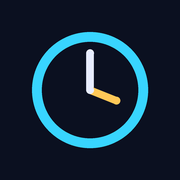
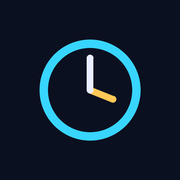
Add files via upload

Changed region(s): [[0.1667, 0.1667, 0.8333, 0.8333], [0.5833, 0.5278, 0.6667, 0.5833]]

diff --git a/index.html b/index.html
@@ -76,8 +76,11 @@ nav .ci{box-shadow:inset 0 1px 0 rgba(255,255,255,.45),0 5px 10px -5px var(--shc
 .pri{box-shadow:0 6px 16px -8px var(--ac)}
 .an{padding:10px 0;border-bottom:1px solid var(--line);text-align:left}.an:last-child{border-bottom:0}
 .an.hn{cursor:pointer}.an .ar{display:flex;justify-content:space-between;align-items:center;gap:10px}
-.an .ch{color:var(--mu);font-size:12px;flex-shrink:0}.an .nt{margin-top:8px;padding:10px 12px;border-radius:12px;background:var(--s2);color:var(--mu);font-size:14px;white-space:pre-wrap;line-height:1.6}
+.an .ch{color:var(--ac);font-size:22px;line-height:1;width:36px;height:36px;display:flex;align-items:center;justify-content:center;border-radius:12px;background:var(--s2);flex-shrink:0}.an .nt{margin-top:8px;padding:10px 12px;border-radius:12px;background:var(--s2);color:var(--mu);font-size:14px;white-space:pre-wrap;line-height:1.6}
 .ann .li:last-child{border-bottom:0}.sep{border:0;border-top:1px solid var(--line);margin:8px 0 4px}
+/* 淺色模式對比度加強 + 手動切換主題（設定頁） */
+@media (prefers-color-scheme:light){:root:not([data-theme="dark"]){--s1:rgba(255,255,255,.78);--mu:#46537a;--line:rgba(60,80,130,.28)}}
+:root[data-theme="light"]{--bg:#eaf0fb;--s1:rgba(255,255,255,.55);--s2:rgba(255,255,255,.7);--line:rgba(70,90,140,.2);--tx:#16203a;--mu:#5d6a8c;--ac:#0a8fd0;--acs:#0a8fd01a;--blue:#cfe9fb;--blueT:#0b3a5e;--dec:#b27a00;--ok:#0f9d62;--bad:#d1384a;--pill:rgba(10,143,208,.14);--snow:100,140,205;--b1:rgba(10,143,208,.25);--b2:rgba(150,110,255,.18);--b3:rgba(10,143,208,.12);--shc:rgba(50,70,120,.3);--s1:rgba(255,255,255,.78);--mu:#46537a;--line:rgba(60,80,130,.28)}
 </style></head><body><div id="app"><h1 id="h"></h1><main id="v"></main>
 <nav><span id="navbg"></span><svg id="navsvg"></svg><span id="pill"></span><button data-t="settings"><svg viewBox="0 0 24 24"><path d="M19.14 12.94c.04-.3.06-.61.06-.94 0-.32-.02-.64-.07-.94l2.03-1.58a.49.49 0 0 0 .12-.61l-1.92-3.32a.488.488 0 0 0-.59-.22l-2.39.96c-.5-.38-1.03-.7-1.62-.94l-.36-2.54a.484.484 0 0 0-.48-.41h-3.84c-.24 0-.43.17-.47.41l-.36 2.54c-.59.24-1.13.57-1.62.94l-2.39-.96c-.22-.08-.47 0-.59.22L2.74 8.87c-.12.21-.08.47.12.61l2.03 1.58c-.05.3-.09.63-.09.94s.02.64.07.94l-2.03 1.58a.49.49 0 0 0-.12.61l1.92 3.32c.12.22.37.29.59.22l2.39-.96c.5.38 1.03.7 1.62.94l.36 2.54c.05.24.24.41.48.41h3.84c.24 0 .44-.17.47-.41l.36-2.54c.59-.24 1.13-.56 1.62-.94l2.39.96c.22.08.47 0 .59-.22l1.92-3.32c.12-.22.07-.47-.12-.61l-2.01-1.58zM12 15.6c-1.98 0-3.6-1.62-3.6-3.6s1.62-3.6 3.6-3.6 3.6 1.62 3.6 3.6-1.62 3.6-3.6 3.6z"/></svg><span>設定</span></button><button data-t="dev"><svg viewBox="0 0 24 24"><path d="M9 21c0 .55.45 1 1 1h4c.55 0 1-.45 1-1v-1H9v1zm3-19C8.14 2 5 5.14 5 9c0 2.38 1.19 4.47 3 5.74V17c0 .55.45 1 1 1h6c.55 0 1-.45 1-1v-2.26c1.81-1.27 3-3.36 3-5.74 0-3.86-3.14-7-7-7z"/></svg><span>開發中</span></button><button data-t="home"><svg viewBox="0 0 24 24"><path d="M10 20v-6h4v6h5v-8h3L12 3 2 12h3v8z"/></svg><span>首頁</span></button><button data-t="input"><svg viewBox="0 0 24 24"><path d="M3 17.25V21h3.75L17.81 9.94l-3.75-3.75L3 17.25zM20.71 7.04a.996.996 0 0 0 0-1.41l-2.34-2.34a.996.996 0 0 0-1.41 0l-1.83 1.83 3.75 3.75 1.83-1.83z"/></svg><span>輸入</span></button><button data-t="stats"><svg viewBox="0 0 24 24"><path d="M5 9.2h3V19H5zM10.6 5h2.8v14h-2.8zm5.6 8H19v6h-2.8z"/></svg><span>統計</span></button></nav></div>
 <script src="config.js"></script>
@@ -89,8 +92,8 @@ function seed(){return{carry:0,declared:{},todos:[],active:null,logs:[]}}
 let S;try{S=JSON.parse(localStorage.getItem(K))}catch(e){}S=S||seed();
 const persist=()=>{try{localStorage.setItem(K,JSON.stringify(S))}catch(e){}};
 const save=()=>{try{if(S.user&&S.synced&&S.base&&syncDiff())S.dirty=true}catch(e){}persist();if(S.dirty)pushSoon()};
-const nowM=new Date().toISOString().slice(0,7);
-let tab='home',confirm=false,done=false,mode=null,im=nowM,sm=nowM;
+
+let tab='home',confirm=false,done=false,mode=null,im=curM(),sm=curM();
 if(!semMons().includes(sm))sm=semMons()[5];
 const f=n=>String(Math.round(n*100)/100);
 const act=m=>S.logs.filter(l=>l.date.startsWith(m)).reduce((a,l)=>a+l.hours,0);
@@ -112,8 +115,9 @@ function settings(){
  ${impMsg?`<p class="sm" style="margin:8px 0 0">${esc(impMsg)}</p>`:''}
  ${p?`<div style="margin-top:10px;border-top:1px solid var(--line);padding-top:10px"><div class="sm" style="line-height:1.7">檔案：${esc(p.name)}<br>打卡 <b>${p.logs.length}</b> 筆${p.dropped?`（略過 ${p.dropped} 筆舊學期）`:''}${rg.length?`・${FD(rg[0])} ～ ${FD(rg[rg.length-1])}`:''}<br>加保 <b>${Object.keys(p.declared).length}</b> 個月・上期累計 <b>${f(p.carry)}</b> hr</div><div class="row" style="gap:8px;margin-top:8px"><button class="sb ok2" onclick="applyImp('merge')">合併</button><button class="sb bad2" onclick="applyImp('replace')">覆蓋</button><button class="sb" onclick="imp=null;render()">取消</button></div></div>`:''}
  <details style="margin-top:8px"><summary class="sm" style="cursor:pointer">說明</summary><p class="sm" style="margin:6px 0 0;line-height:1.7">匯出：把紀錄存成檔案，可備份或換手機。<br>匯入：選取本 App 匯出的 .json 或 .csv，確認筆數後選擇方式。<br><b>合併</b>：保留現有資料，只新增沒有的打卡紀錄與尚未設定的月份。<br><b>覆蓋</b>：用檔案內容取代現有的打卡、加保時數與上期累計。</p></details></div>
- ${S.user?`<div class="c" style="text-align:left"><b>目前身分</b><div class="sm" style="margin:4px 0 10px">${esc(S.user.name)}（${esc(S.user.id)}）· 暱稱：${esc(S.user.nick||'')}<br>組別：${esc(S.user.group||'—')}${S.user.admin?' · <b style="color:var(--bad)">管理員</b>':''}<br>${syncLine()}</div><button class="gh" style="margin-bottom:10px" onclick="syncNow().then(()=>render())">立即同步</button><button class="gh" onclick="if(confirm_('登出後需要重新驗證學號，打卡紀錄不會被刪除。確定登出？')){S.user=null;save();render()}">登出</button></div>`:''}<button class="c" style="text-align:left;color:var(--bad);border-color:var(--bad)" onclick="if(confirm_('確定要清除所有資料嗎？雲端試算表裡你的加保時數與打卡紀錄也會一併清除，此動作無法復原。')){S={carry:0,declared:{},todos:[],active:null,logs:[],first:S.first,user:S.user,uid:S.uid,synced:S.synced,base:S.base,dirty:S.dirty,lastSync:S.lastSync};save();confirm=false;done=false;render()}">清除所有資料</button>
- <div class="foot">於 ${S.first.replace(/-/g,'.')} 首次使用<br>版本：alpha.0<hr>開發者：PoYu</div>`}
+ <div class="c" style="text-align:left;padding:12px 14px"><b style="font-size:15px">外觀主題</b><div class="row" style="gap:8px;margin-top:8px">${[['','跟隨系統'],['dark','深色'],['light','淺色']].map(x=>`<button class="sb ${curTheme()===x[0]?'ok2':''}" onclick="setTheme('${x[0]}')">${x[1]}</button>`).join('')}</div></div>
+ ${S.user?`<div class="c" style="text-align:left"><b>目前身分</b><div class="sm" style="margin:4px 0 10px">${esc(S.user.name)}（${esc(S.user.id)}）· 暱稱：${esc(S.user.nick||'')}<br>組別：${esc(S.user.group||'—')}${S.user.admin?' · <b style="color:var(--bad)">管理員</b>':''}<br>${syncLine()}</div><button class="gh" style="margin-bottom:10px" onclick="syncNow().then(()=>render())">立即同步</button><button class="gh" onclick="if(confirm_('登出後需要重新驗證學號，打卡紀錄不會被刪除。確定登出？')){S.user=null;save();render()}">登出</button></div>`:''}<button class="c" style="text-align:left;color:var(--bad);border-color:var(--bad)" onclick="resetLocal()">清除本機資料並重新從雲端同步<div class="sm" style="margin-top:4px;color:var(--mu)">只清除這支手機的資料，雲端紀錄不會被刪除；資料有問題時用這個。</div></button>
+ <div class="foot">於 ${S.first.replace(/-/g,'.')} 首次使用<br>版本：alpha.1<hr>開發者：PoYu</div>`}
 function dl(name,text,type){try{const a=document.createElement('a');a.href=URL.createObjectURL(new Blob([text],{type}));a.download=name;document.body.appendChild(a);a.click();a.remove()}catch(e){alert('匯出失敗，請用手機瀏覽器或已安裝的 App 開啟')}}
 function exportJSON(){dl('上班時數備份_'+ld(Date.now())+'.json',JSON.stringify({app:'work-hours',v:1,exported:new Date().toISOString(),data:{carry:S.carry,declared:S.declared,logs:S.logs}},null,1),'application/json')}
 function exportCSV(){const rows=[['學號','日期','上班','下班','完成時數']];S.logs.slice().sort((a,b)=>a.date<b.date?-1:1).forEach(l=>rows.push([S.user?S.user.id:'',l.date,l.start||'',l.end||'',l.hours]));rows.push([],['月份','加保時數'],['上期累計',S.carry]);Object.keys(S.declared).sort().forEach(m=>rows.push([m,S.declared[m]]));
@@ -233,22 +237,22 @@ function syncLine(){if(!API)return'雲端同步：示範模式（未連接）';r
 addEventListener('online',()=>syncNow());
 document.addEventListener('visibilitychange',()=>{if(!document.hidden)syncNow()});
 setInterval(()=>{if(!document.hidden){syncNow();loadAnn()}},60000);
-function go(t){tab=t;mode=null;anim=true;expo=false;imp=null;impMsg='';render()}
+function go(t){tab=t;mode=null;editId=null;edKeep=null;edDraft=null;anim=true;expo=false;imp=null;impMsg='';render()}
 function render(){
  if(typeof loginGate=='function'&&loginGate())return;
  document.querySelectorAll('nav button').forEach(b=>{b.className=b.dataset.t==tab?'on':'';b.onclick=()=>go(b.dataset.t)});
  {const T0={home:'Work Hours',input:'Manual Input',stats:'Statistics',settings:'Settings',dev:'In Development'}[tab];document.getElementById('h').innerHTML=esc(T0)+(tab=='home'&&S.user?'<span class="nick">'+esc(S.user.nick||S.user.name)+'</span>':'')}const v=document.getElementById('v');const pg=anim;v.className=(pg?'pg':'');anim=false;v.innerHTML={home,input,stats,settings,dev}[tab]();tick();pillMove();fx(pg)}
-function tick(){sync();const e=document.getElementById('clk');if(e){const d=new Date();e.innerHTML=`<div class="big">${pad(d.getHours())}:${pad(d.getMinutes())}:${pad(d.getSeconds())}</div><div class="sm">${d.getFullYear()}年${d.getMonth()+1}月${d.getDate()}日 週${'日一二三四五六'[d.getDay()]}</div>`}}
+function tick(){sync();{const ms=S.active?Date.now()-S.active.start:0,mm=Math.max(0,Math.floor(ms/6e4)),w=document.getElementById('wk'),w2=document.getElementById('wk2');if(S.active&&w)w.textContent='已 '+Math.floor(mm/60)+' 小時 '+(mm%60)+' 分 · 目前結算 '+f(calc(ms))+' hr';if(S.active&&w2)w2.textContent='本次結算：'+f(calc(ms))+' hr（已打卡 '+Math.floor(mm/60)+' 小時 '+(mm%60)+' 分）'}const e=document.getElementById('clk');if(e){const d=new Date();e.innerHTML=`<div class="big">${pad(d.getHours())}:${pad(d.getMinutes())}:${pad(d.getSeconds())}</div><div class="sm">${d.getFullYear()}年${d.getMonth()+1}月${d.getDate()}日 週${'日一二三四五六'[d.getDay()]}</div>`}}
 setInterval(tick,1000);
 function home(){
  let h='<div class="c" id="clk"></div>',a=S.active;
  if(!a){h+=done?`<div class="c pri" style="cursor:default">下班囉</div>`:`<button class="pri" onclick="inn()">上班</button>`;
   if(done){const td=ld(Date.now()),L=S.logs.filter(l=>l.date==td);
-   h+=`<div class="c"><div class="t">打卡時間紀錄</div>${L.map(l=>`<div class="li"><span>${FD(l.date)}${l.start?` <span class="sm">${l.start} → ${l.end}</span>`:''}</span><b>${f(l.hours)} hr</b></div>`).join('')||'<p class="sm">今天尚無紀錄</p>'}</div><button class="lb" onclick="done=false;render()">回到首頁</button>`}
+   h+=`<div class="c"><div class="t">打卡時間紀錄</div>${L.map(l=>`<div class="li"><span>${FD(l.date)}${l.start?` <span class="sm">${rng(l)}</span>`:''}</span><b>${f(l.hours)} hr</b></div>`).join('')||'<p class="sm">今天尚無紀錄</p>'}</div><p class="sm" style="text-align:center;margin:0">6 秒後自動回到首頁</p><button class="lb" onclick="done=false;render()">回到首頁</button>`}
   else{h+=annCard()+taskCard()}}
- else{h+=confirm?`<div class="c"><div class="t">下班？</div><div class="row"><button class="bad" onclick="out()">確定下班</button><button class="gh" onclick="confirm=false;render()">取消</button></div></div>`
-  :`<button class="pri" style="background:var(--s1);color:var(--ok);border-color:var(--ok)" onclick="confirm=true;render()">● 上班中 · ${hm(a.start)} 起</button>`;
-  h+=`<div class="c"><div class="t">待辦事項</div>${TASKS.length?taskRows()+'<hr class="sep">':''}${S.todos.map((t,i)=>`<div class="li"><span style="${t.d?'text-decoration:line-through;opacity:.6':''}" onclick="S.todos[${i}].d=!S.todos[${i}].d;save();render()">${t.d?'☑':'☐'} ${esc(t.t)}</span><button class="x gh" onclick="S.todos.splice(${i},1);save();render()">✕</button></div>`).join('')}
+ else{h+=confirm?`<div class="c"><div class="t">下班？</div><div class="sm" id="wk2" style="margin:-2px 0 10px"></div><div class="row"><button class="bad" onclick="out()">確定下班</button><button class="gh" onclick="confirm=false;render()">取消</button></div></div>`
+  :`<button class="pri" style="background:var(--s1);color:var(--ok);border-color:var(--ok)" onclick="confirm=true;render()">● 上班中 · ${hm(a.start)} 起<span id="wk" style="display:block;font-size:13px;font-weight:500;color:var(--mu);margin-top:3px"></span></button>`;
+  h+=(Date.now()-a.start>12*36e5?fgtCard():'')+`<div class="c"><div class="t">待辦事項</div>${TASKS.length?taskRows()+'<hr class="sep">':''}${S.todos.map((t,i)=>`<div class="li"><span style="${t.d?'text-decoration:line-through;opacity:.6':''}" onclick="S.todos[${i}].d=!S.todos[${i}].d;save();render()">${t.d?'☑':'☐'} ${esc(t.t)}</span><button class="x gh" onclick="S.todos.splice(${i},1);save();render()">✕</button></div>`).join('')}
    <div class="row" style="margin-top:8px"><input id="td" placeholder="新增待辦…" style="margin:0;flex:3"><button style="flex:1" onclick="addT()">＋</button></div></div>`+annCard()}
  return h}
 const esc=s=>s.replace(/[&<>"]/g,c=>({'&':'&amp;','<':'&lt;','>':'&gt;','"':'&quot;'}[c]));
@@ -276,37 +280,81 @@ const annCard=()=>`<div class="c ann" style="text-align:left"><div class="t" sty
 const taskRows=()=>TASKS.map(t=>`<div class="li"><span>🔸 ${esc(t)}</span></div>`).join('');
 const taskCard=()=>TASKS.length?`<div class="c ann" style="text-align:left"><div class="t" style="text-align:center">指派任務</div>${taskRows()}</div>`:'';
 // 待辦推送：依組別規則（星期＋時段，含開始、不含結束）決定現在該有哪些待辦
-const nowHits=()=>{const n=new Date(),m=n.getHours()*60+n.getMinutes(),d=n.getDay(),h=[];RULES.forEach((r,i)=>{if(r.d.includes(d)&&m>=r.s&&m<r.e)h.push(i)});return h};
+const EARLY=14;   // 打卡寬限（分鐘）：時段開始前 14 分鐘起就算該時段，例如 19:00-21:00 → 18:46～20:45 打卡都會收到
+const nowHits=(early)=>{const n=new Date(),m=n.getHours()*60+n.getMinutes()+(early?EARLY:0),d=n.getDay(),h=[];RULES.forEach((r,i)=>{if(r.d.includes(d)&&m>=r.s&&m<r.e)h.push(i)});return h};
 const ruleItems=h=>{const o=[];h.forEach(i=>RULES[i].items.forEach(t=>{if(!o.includes(t))o.push(t)}));return o};
-function inn(){const h=nowHits();S.todos=ruleItems(h).map(t=>({t,d:false}));S.lastP=h.join(',');S.active={start:Date.now()};confirm=false;done=false;save();render()}
+function inn(){if(!guard())return;const h=nowHits(true);S.todos=ruleItems(h).map(t=>({t,d:false}));S.lastP=nowHits().join(',');S.active={start:Date.now()};confirm=false;done=false;save();render()}
 function sync(){if(!S.active)return;const h=nowHits(),k=h.join(',');if(k===S.lastP)return;S.lastP=k;let add=0;ruleItems(h).forEach(t=>{if(!S.todos.some(x=>x.t===t)){S.todos.push({t,d:false});add++}});save();if(add&&tab=='home'&&!busyEl())render()}
+let _g=0;const guard=()=>{if(_g)return false;_g=1;setTimeout(()=>_g=0,900);return true};
+let doneT=0,editId=null,edKeep=null,edDraft=null;
+function curM(){const d=new Date();return d.getFullYear()+'-'+('0'+(d.getMonth()+1)).slice(-2)}
+const curTheme=()=>{try{return localStorage.getItem('wh2-theme')||''}catch(e){return''}};
+function applyTheme(){const t=curTheme(),h=document.documentElement;if(!h||!h.removeAttribute)return;h.removeAttribute('data-theme');if(t)h.setAttribute('data-theme',t)}
+function setTheme(t){try{t?localStorage.setItem('wh2-theme',t):localStorage.removeItem('wh2-theme')}catch(e){}applyTheme();render()}
+applyTheme();
+const rng=l=>l.start+'–'+(l.end&&l.end<l.start?'次日 ':'')+l.end;
+const hOpts=(max,sel)=>'<option value="">時</option>'+Array.from({length:max+1},(_,i)=>`<option value="${i}"${sel===i?' selected':''}>${pad(i)}</option>`).join('');
+const mOpts=sel=>'<option value="">分</option>'+[0,30].map(m=>`<option value="${m}"${sel===m?' selected':''}>${pad(m)}</option>`).join('');
+const pr=t=>{const m=/^(\d{1,2}):(\d{2})$/.exec(t||'');return m&&(+m[2]==0||+m[2]==30)?{h:+m[1],m:+m[2]}:null};
+function timeCalc(){const g=i=>document.getElementById(i).value,a=g('tsh'),b=g('tsm'),c=g('teh'),d=g('tem');
+ if(a===''||b===''||c===''||(d===''&&c!='24'))return;let df=(+c*60+(c=='24'?0:+d))-(+a*60+ +b);if(df<=0)df+=1440;document.getElementById('lh').value=f(calc(df*6e4))}
+const fgtCard=()=>`<div class="c" style="text-align:left;border-color:var(--dec)"><div class="t" style="color:var(--dec);text-align:left">⚠ 已連續打卡超過 12 小時，是否忘記下班？</div><label>實際下班時間</label><div class="row"><select id="fh">${hOpts(24)}</select><select id="fm">${mOpts()}</select></div><button class="pri" style="font-size:16px;padding:13px" onclick="fixOut()">補登下班時間</button><p class="sm" style="margin:8px 0 0">若確實一直在上班，直接按上方「上班中」按鈕下班即可。</p></div>`;
+function fixOut(){const h=document.getElementById('fh').value,m=document.getElementById('fm').value;if(h===''||(m===''&&h!='24'))return alert('請選擇實際下班的「時」與「分」');
+ const s=new Date(S.active.start);let e=new Date(s.getFullYear(),s.getMonth(),s.getDate(),+h,h=='24'?0:+m,0,0);if(e.getTime()<=S.active.start)e=new Date(e.getTime()+864e5);
+ if(e.getTime()>Date.now())return alert('下班時間不能晚於現在');if(!confirm_('補登下班時間 '+hm(e.getTime())+'，確定嗎？'))return;outAt(e.getTime())}
 const calc=ms=>{const m=Math.max(0,Math.round(ms/6e4)),r=m%60;return Math.floor(m/60)+(r<=15?0:r<=45?.5:1)};
-function out(){const e=Date.now(),s=S.active.start;
- S.logs.push({id:'l'+e,date:ld(s),start:hm(s),end:hm(e),hours:calc(e-s)});S.active=null;confirm=false;done=true;save();render()}
+function outAt(e){if(!guard()||!S.active)return;const s=S.active.start;if(e<=s)e=s+60000;
+ S.logs.push({id:'l'+Date.now(),date:ld(s),start:hm(s),end:hm(e),hours:calc(e-s)});S.active=null;confirm=false;done=true;save();render();
+ clearTimeout(doneT);doneT=setTimeout(()=>{if(done&&!S.active){done=false;if(tab=='home')render()}},6000)}
+function out(){outAt(Date.now())}
+function resetLocal(){
+ if(!API||!S.user){if(!confirm_('目前未連接雲端，清除後這支手機上的資料會消失且無法復原。確定清除？'))return;
+  S={carry:0,declared:{},todos:[],active:null,logs:[],first:S.first,user:S.user,uid:S.uid};persist();confirm=false;done=false;render();return}
+ if(!confirm_((S.dirty?'⚠ 有尚未上傳到雲端的變動，清除後會遺失。\n':'')+'這會清除這支手機上的資料，並重新從雲端下載。雲端的紀錄不會被刪除。確定嗎？'))return;
+ S={carry:0,declared:{},todos:[],active:null,logs:[],first:S.first,user:S.user,uid:S.uid,synced:false,base:null,dirty:false};persist();confirm=false;done=false;render();syncNow().then(()=>render())}
 function numOnly(el){const v=el.value.replace(/[^0-9.]/g,''),i=v.indexOf('.');el.value=i<0?v:v.slice(0,i+1)+v.slice(i+1).replace(/\./g,'')}
 function input(){
- const bk=`<div class="row"><button class="gh" onclick="mode=null;render()">返回</button>`;
+ const bk=`<div class="row"><button class="gh" onclick="mode=null;editId=null;edKeep=null;edDraft=null;render()">返回</button>`;
  if(!mode)return `<div class="c"><div class="t">新增or修改哪一項？</div><div class="opt"><button class="lb" onclick="mode='d';render()">加保時數</button><button class="lb" onclick="mode='l';render()">打卡時間</button></div></div>`+`<details class="c" style="text-align:left;margin-top:18px"><summary class="sm" style="cursor:pointer">其他設定：上期累計</summary><div style="margin-top:12px"><label>上期累計加保時數 (hr)</label><input id="cy" type="number" inputmode="decimal" step="0.5" value="${S.carry}"><button class="gh" onclick="svC()">儲存上期累計</button></div></details>`;
  if(mode=='d')return `<div class="c" style="text-align:left"><div class="row"><div><label>年</label><input id="iy" type="text" inputmode="numeric" maxlength="4" value="${im.slice(0,4)}" style="text-align:center" oninput="this.value=this.value.replace(/\\D/g,'')" onchange="setIM()"></div><div><label>月</label><select id="imo" onchange="setIM()">${[...Array(12)].map((_,i)=>`<option value="${i+1}" ${i+1==+im.slice(5)?'selected':''}>${i+1}月</option>`).join('')}</select></div></div><label>${ML(im)}加保時數 (hr)</label><input id="dv" type="text" inputmode="decimal" oninput="numOnly(this)" value="${S.declared[im]??''}">${bk}<button class="pri" style="font-size:16px;padding:13px" onclick="svD()">儲存</button></div></div>`;
- return `<div class="c" style="text-align:left"><label>日期</label><input id="ld" type="date" value="${ld(Date.now())}"><label>時數 (hr)</label><input id="lh" type="text" inputmode="decimal" oninput="numOnly(this)" placeholder="例如 3.5">${bk}<button class="pri" style="font-size:16px;padding:13px" onclick="svL()">新增</button></div></div>`}
+ const d=edDraft||{},S0=d.s||{},E0=d.e||{};
+ return `<div class="c" style="text-align:left"><label>日期</label><input id="ld" type="date" value="${d.date||ld(Date.now())}">
+  <label>上班時間（選填）</label><div class="row"><select id="tsh" onchange="timeCalc()">${hOpts(23,S0.h)}</select><select id="tsm" onchange="timeCalc()">${mOpts(S0.m)}</select></div>
+  <label>下班時間（選填，24 時＝午夜）</label><div class="row"><select id="teh" onchange="timeCalc()">${hOpts(24,E0.h)}</select><select id="tem" onchange="timeCalc()">${mOpts(E0.m)}</select></div>
+  <label>時數 (hr)</label><input id="lh" type="text" inputmode="decimal" oninput="numOnly(this)" placeholder="選了上下班時間會自動計算，也可手動修改" value="${d.hours!==undefined?d.hours:''}">
+  ${editId&&edKeep&&edKeep.start&&!d.s?`<p class="sm" style="margin:0 0 10px">原本的打卡時間 ${rng(edKeep)} 會保留；要更改請在上面重新選擇。</p>`:''}
+  ${bk}<button class="pri" style="font-size:16px;padding:13px" onclick="svL()">${editId?'儲存修改':'新增'}</button></div></div>`}
 function svC(){const n=parseFloat(document.getElementById('cy').value);S.carry=isNaN(n)?0:n;save();go('stats')}
 function setIM(){const y=parseInt(document.getElementById('iy').value),m=+document.getElementById('imo').value;if(!(y>=1990&&y<=2100)){alert('請輸入正確的年份');return render()}im=y+'-'+pad(m);render()}
-function svD(){const d=parseFloat(document.getElementById('dv').value);if(!isNaN(d))S.declared[im]=d;save();mode=null;go('stats')}
-function svL(){const $=i=>document.getElementById(i).value;const d=$('ld'),h=parseFloat($('lh'));
- if(!d||!(h>0))return alert('請輸入日期與時數');if(d<semMons()[0]+'-01')return alert('只保留本學期的打卡紀錄，這個日期早於 '+ML(semMons()[0])+'，無法新增');S.logs.push({id:'l'+Date.now(),date:d,hours:h});save();sm=d.slice(0,7);im=sm;mode=null;go('stats')}
+function svD(){if(!guard())return;const d=parseFloat(document.getElementById('dv').value);if(!isNaN(d))S.declared[im]=d;save();mode=null;go('stats')}
+function svL(){if(!guard())return;const $=i=>document.getElementById(i).value;const d=$('ld');let h=parseFloat($('lh'));
+ const sH=$('tsh'),sM=$('tsm'),eH=$('teh'),eM=$('tem'),any=[sH,sM,eH,eM].some(x=>x!==''),all=sH!==''&&sM!==''&&eH!==''&&(eM!==''||eH=='24');
+ if(any&&!all)return alert('上班與下班的「時」和「分」請都選好，或全部留空');
+ let st,en;
+ if(all){st=pad(+sH)+':'+pad(+sM);en=(eH=='24'?'00':pad(+eH))+':'+(eH=='24'?'00':pad(+eM));
+  if(!(h>0)){let df=(+eH*60+(eH=='24'?0:+eM))-(+sH*60+ +sM);if(df<=0)df+=1440;h=calc(df*6e4)}}
+ else if(editId&&edKeep&&edKeep.start){st=edKeep.start;en=edKeep.end}
+ if(!d||!(h>0))return alert('請輸入日期與時數，或選擇上下班時間');
+ if(d<semMons()[0]+'-01')return alert('只保留本學期的打卡紀錄，這個日期早於 '+ML(semMons()[0])+'，無法新增');
+ if(editId)S.logs=S.logs.filter(l=>String(l.id)!==String(editId));
+ const o={id:'l'+Date.now(),date:d,hours:h};if(st){o.start=st;o.end=en}
+ S.logs.push(o);editId=null;edKeep=null;edDraft=null;save();sm=d.slice(0,7);im=sm;mode=null;go('stats')}
 function stats(){const t=tot(),diff=t.a-t.d;
  const L=S.logs.filter(l=>l.date.startsWith(sm)).sort((a,b)=>a.date<b.date?-1:1);
- return `<div class="c"><div class="row"><div><div class="t">總加保時數</div><div class="big dec" style="font-size:26px">${f(t.d)}</div></div><div><div class="t">已完成時數</div><div class="big ok" style="font-size:26px">${f(t.a)}</div></div><div><div class="t">本月已上班</div><div class="big ac" style="font-size:26px">${f(act(nowM))}</div></div></div>
+ return `<div class="c"><div class="row"><div><div class="t">總加保時數</div><div class="big dec" style="font-size:26px">${f(t.d)}</div></div><div><div class="t">已完成時數</div><div class="big ok" style="font-size:26px">${f(t.a)}</div></div><div><div class="t">本月已上班</div><div class="big ac" style="font-size:26px">${f(act(curM()))}</div></div></div>
  <div class="sm" style="margin-top:10px">${diff>=0?'已超過加保 '+f(diff)+' hr':'還需補 '+f(-diff)+' hr'}</div></div>
  <div class="c"><div class="t">明細表</div><table><tr><th></th><th>加保時數</th><th>完成時數</th></tr>
  <tr><td style="font-size:10pt">上期累計</td><td>${f(S.carry)}</td><td></td></tr>
- ${win6().map(m=>`<tr><td>${ML(m)}</td><td class="dec">${S.declared[m]??''}</td><td class="ok">${S.logs.some(l=>l.date.startsWith(m))?f(act(m)):''}</td></tr>`).join('')}
+ ${mons().map(m=>`<tr><td>${ML(m)}</td><td class="dec">${S.declared[m]??''}</td><td class="ok">${S.logs.some(l=>l.date.startsWith(m))?f(act(m)):''}</td></tr>`).join('')}
  <tr><th>加總</th><th class="dec">${f(t.d)}</th><th class="ok">${f(t.a)}</th></tr></table></div>
  <div class="c"><div class="t">上班時數</div><select id="sm" onchange="sm=this.value;render()" style="margin-bottom:6px">${opts(sm)}</select>
- ${L.map(l=>`<div class="li"><span>${FD(l.date)}${l.start?` <span class="sm">${l.start}–${l.end}</span>`:''}</span><span><b>${f(l.hours)} hr</b><button class="x gh" onclick="del('${l.id}')">✕</button></span></div>`).join('')||'<p class="sm">本月尚無紀錄</p>'}
+ ${L.map(l=>`<div class="li"><span>${FD(l.date)}${l.start?` <span class="sm">${rng(l)}</span>`:''}</span><span><b>${f(l.hours)} hr</b><button class="x gh" data-act="ed" data-id="${esc(String(l.id))}">✎</button><button class="x gh" data-act="del" data-id="${esc(String(l.id))}">✕</button></span></div>`).join('')||'<p class="sm">本月尚無紀錄</p>'}
  <div class="li" style="border:0"><b>小計</b><b class="ok">${f(act(sm))} hr</b></div></div>`}
 const confirm_=m=>window.confirm(m);
-function del(id){S.logs=S.logs.filter(l=>l.id!=id);save();render()}
+function del(id){S.logs=S.logs.filter(l=>String(l.id)!==String(id));save();render()}
+function delLog(id){if(confirm_('確定要刪除這筆紀錄嗎？'))del(id)}
+function edLog(id){const l=S.logs.find(x=>String(x.id)===String(id));if(!l)return;editId=l.id;edKeep=l.start?{start:l.start,end:l.end}:null;edDraft={date:l.date,hours:l.hours,s:pr(l.start),e:pr(l.end)};tab='input';mode='l';anim=true;render()}
+document.getElementById('v')?.addEventListener?.('click',e=>{const b=e.target&&e.target.closest&&e.target.closest('[data-act]');if(!b)return;const id=b.getAttribute('data-id');if(b.getAttribute('data-act')=='del')delLog(id);else if(b.getAttribute('data-act')=='ed')edLog(id)});
 (function(){if(matchMedia('(prefers-reduced-motion: reduce)').matches)return;
 const c=document.createElement('canvas');c.setAttribute('aria-hidden','true');c.style.cssText='position:fixed;left:0;top:0;width:100%;height:100%;pointer-events:none;z-index:0';document.body.prepend(c);
 const x=c.getContext('2d');let W,H,F=[],col='255,255,255',n=0,last=0;

diff --git a/sw.js b/sw.js
@@ -1,5 +1,5 @@
 // 更新網頁內容後，請把版本號 +1，使用者就會取得新版
-const VER='wh2-v1';
+const VER='wh2-v3';
 const FILES=['./','index.html','config.js','manifest.json','icon-180.png','icon-192.png','icon-512.png'];
 self.addEventListener('install',e=>{e.waitUntil(caches.open(VER).then(c=>c.addAll(FILES)).then(()=>self.skipWaiting()))});
 self.addEventListener('activate',e=>{e.waitUntil(caches.keys().then(k=>Promise.all(k.filter(x=>x!==VER).map(x=>caches.delete(x)))).then(()=>self.clients.claim()))});
